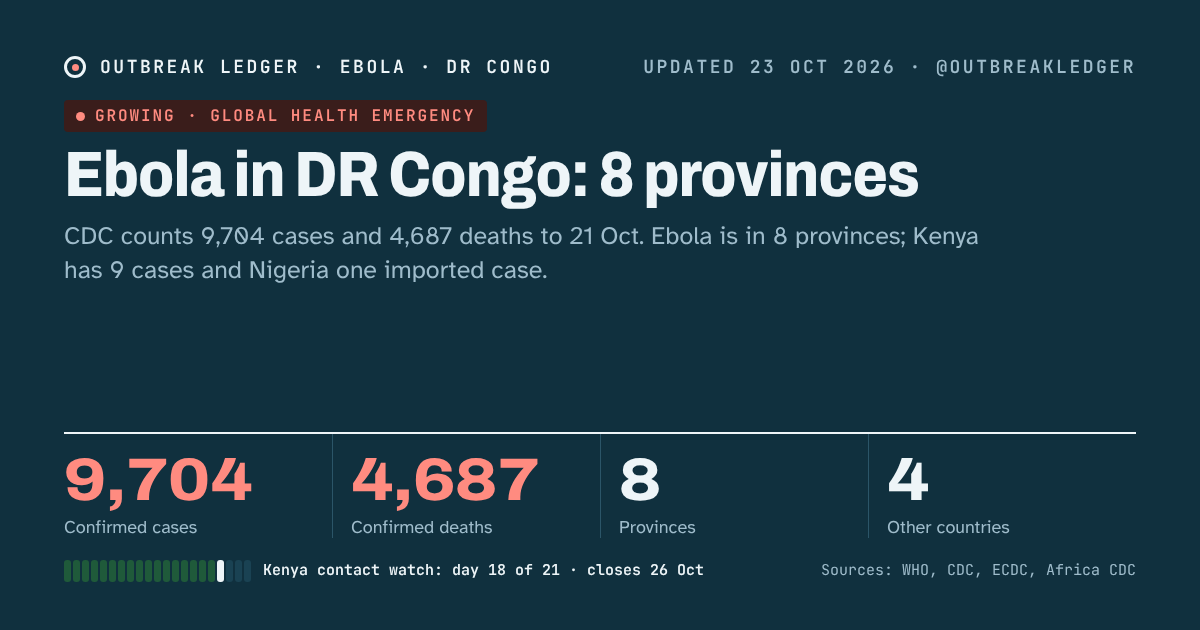
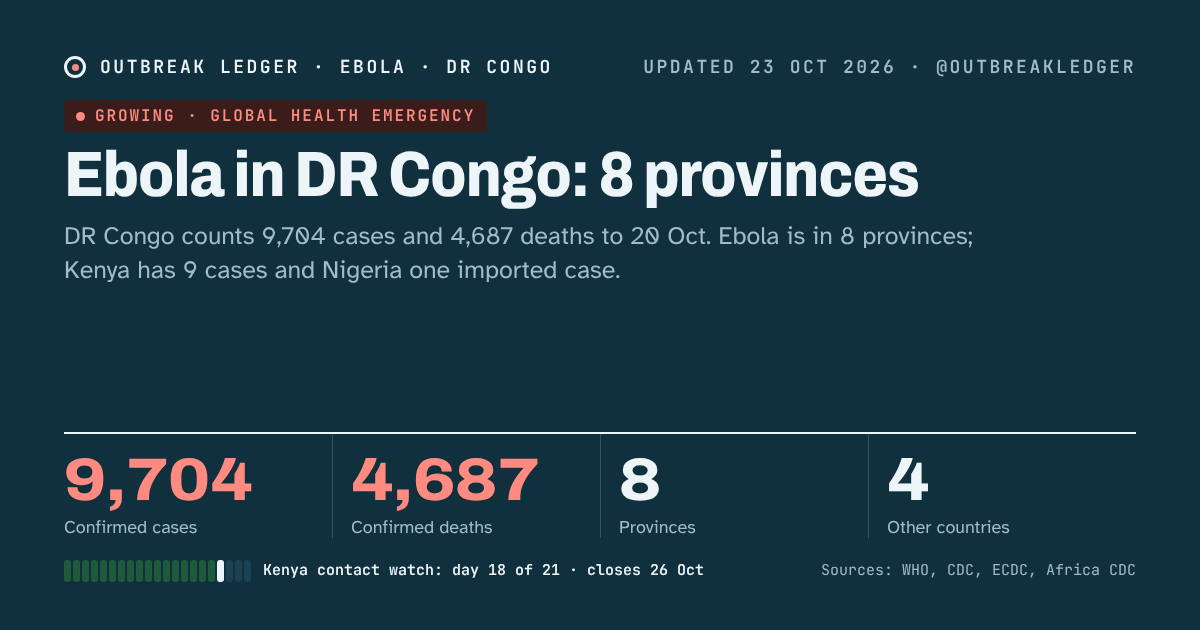
Ebola: attribute 9,704 / 4,687 to DR Congo health authorities (20 Oct)
Claude-Session: https://claude.ai/code/session_01DjK934MGj4uKY77RiACNyU

Changed region(s): [[0.0617, 0.3619, 0.8325, 0.3921], [0.0617, 0.4222, 0.5242, 0.4524]]

diff --git a/site/ebola/share/latest-post.md b/site/ebola/share/latest-post.md
@@ -1,5 +1,5 @@
-Ebola (Bundibugyo): CDC counts 9,704 confirmed cases and 4,687 deaths in DR Congo as of 21 Oct. Kenya has 9 confirmed cases and Nigeria 1 imported case. Africa CDC's ministers' meeting is on 28 Oct.
+Ebola (Bundibugyo): DR Congo's health authorities count 9,704 confirmed cases and 4,687 deaths as of 20 Oct. Kenya has 9 confirmed cases and Nigeria 1 imported case. Africa CDC's ministers' meeting is on 28 Oct.
 
 https://nhlebe1.github.io/ai-scheduler-platform/ebola/
 
-Sources: CDC situation summary (updated 22 Oct, data as of 21 Oct); Kenya Ministry of Health via Al Jazeera (20 Oct); WHO Africa (Nigeria, 20 Oct); AP via U.S. News (21 Oct).
+Sources: DR Congo health authorities via TASS and Xinhua (20–23 Oct); Kenya Ministry of Health via Al Jazeera (20 Oct); WHO Africa (Nigeria, 20 Oct); AP via U.S. News (21 Oct).
